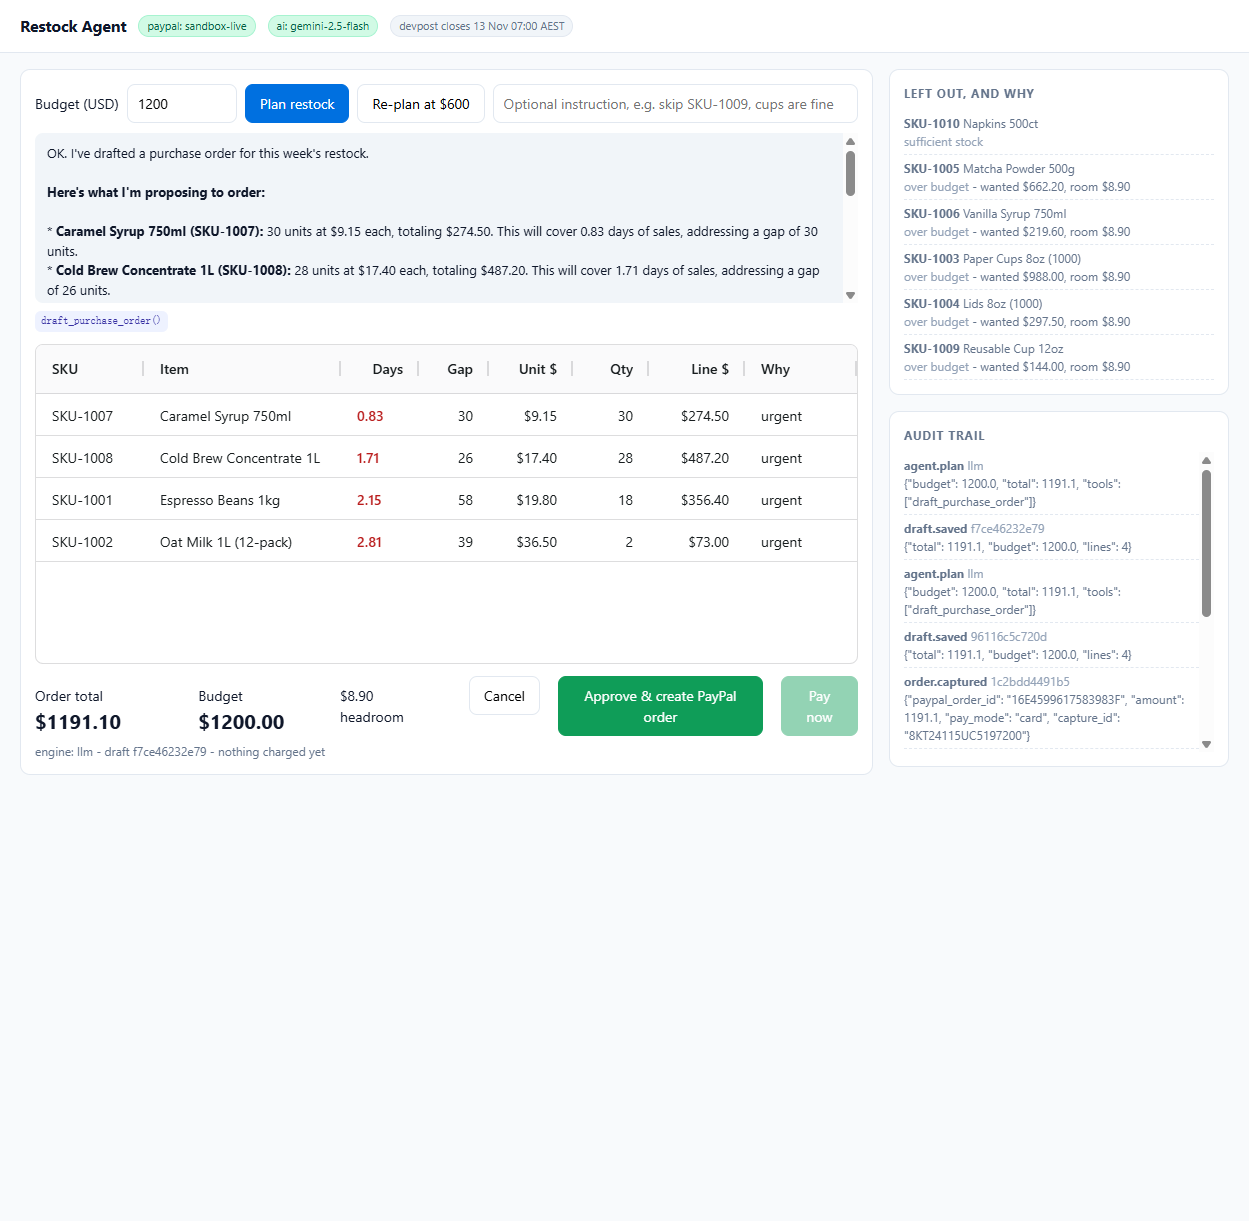
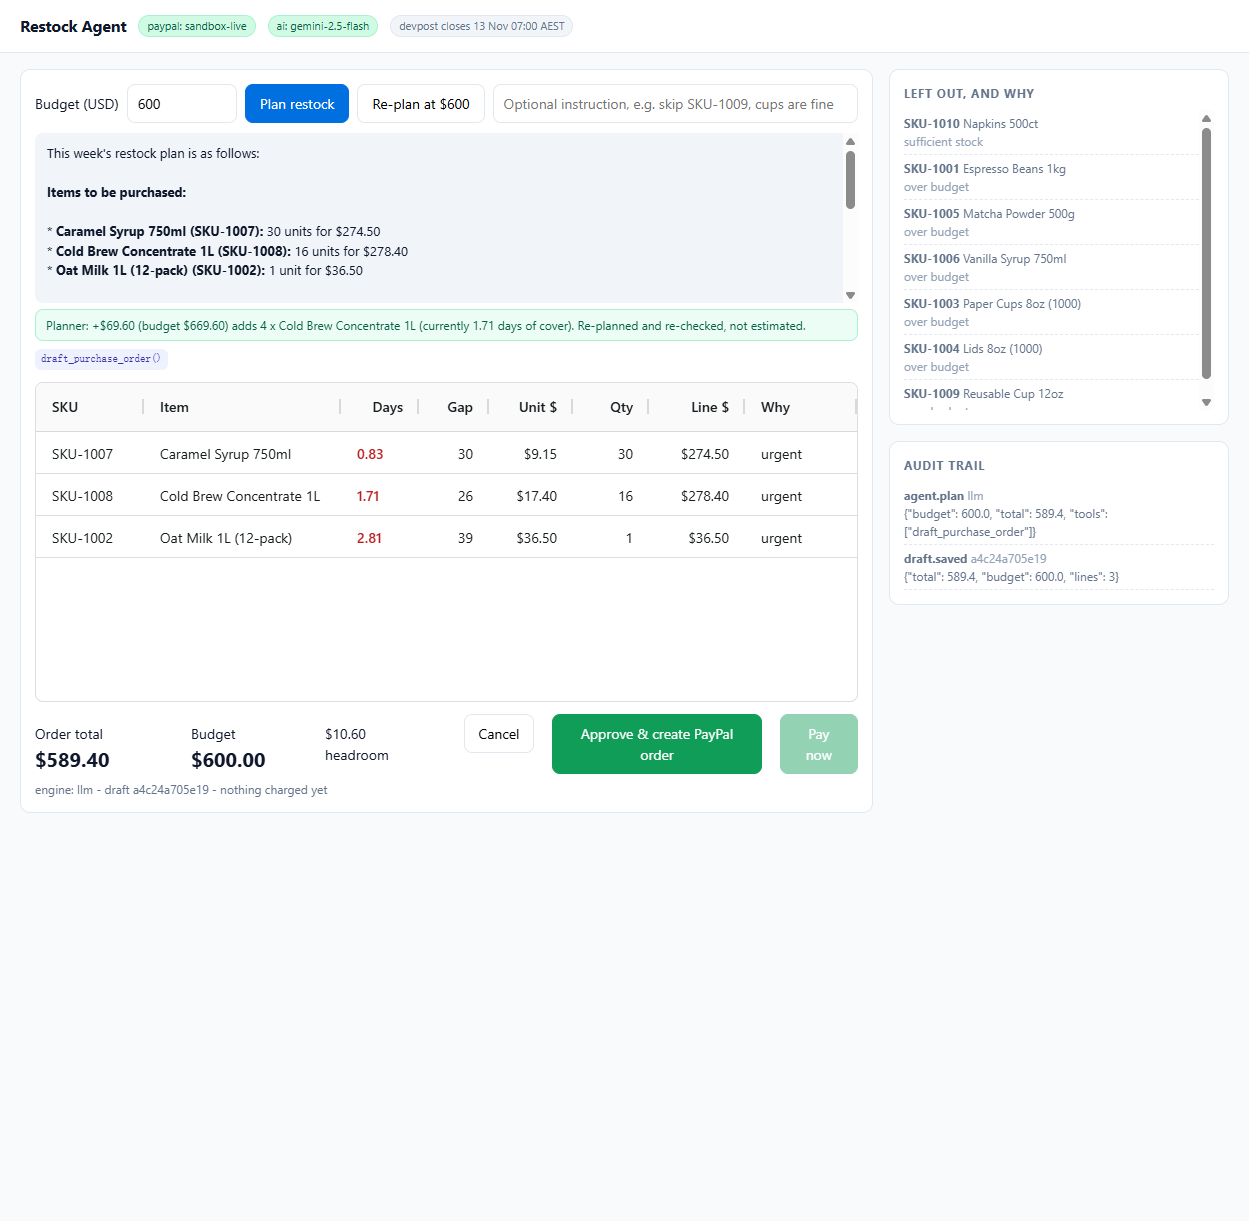
feat: price the trade-off and harden the approval path
- approval token binds a human review to one exact total (HMAC over id:total:lines)
- atomic claim so two concurrent approves cannot both win
- reconcile against PayPal before capturing, repairing a lost local write
- next_unlock quotes one more MOQ, verified by re-planning at the higher budget
- 19 boundary tests

diff --git a/static/index.html b/static/index.html
@@ -28,6 +28,8 @@
   button.pay { background:var(--ok); color:#fff; border-color:var(--ok); }
   button:disabled { opacity:.45; cursor:not-allowed; }
   #reply { margin:10px 0 0; padding:10px 12px; background:#f1f5f9; border-radius:8px; font-size:13px; max-height:170px; overflow:auto; }
+  .note { margin-top:6px; font-size:12px; color:#065f46; background:#ecfdf5; border:1px solid #a7f3d0; border-radius:8px; padding:6px 10px; }
+  .note:empty { display:none; }
   .trace { display:flex; gap:6px; flex-wrap:wrap; margin-top:8px; font-size:11px; color:var(--muted); }
   .trace code { background:#eef2ff; color:#3730a3; padding:2px 6px; border-radius:6px; }
   #grid { height:320px; width:100%; margin-top:12px; }
@@ -61,6 +63,7 @@
         <input type="text" id="message" placeholder="Optional instruction, e.g. skip SKU-1009, cups are fine" />
       </div>
       <div id="reply">Press "Plan restock" and the agent reads the inventory CSV, quotes the catalog, and drafts a purchase order under your budget.</div>
+      <div id="note" class="note"></div>
       <div class="trace" id="trace"></div>
 
       <div id="grid" class="ag-theme-quartz"></div>
@@ -157,7 +160,11 @@ function renderSkipped() {
   if (!draft || !draft.skipped || !draft.skipped.length) { box.textContent = "Nothing dropped."; return; }
   box.innerHTML = draft.skipped.map(s =>
     "<div><b>" + s.sku + "</b> " + s.name + "<br/><span style=\"color:#94a3b8\">" + s.reason.replace(/_/g, " ") + "</span>" +
-    (s.wanted_cost ? " - wanted $" + Number(s.wanted_cost).toFixed(2) + ", room $" + Number(s.room_left).toFixed(2) : "") +
+    (s.unlock_cost
+      ? " &middot; <b>+$" + Number(s.unlock_cost).toFixed(2) + " unlocks " + Number(s.covers_days).toFixed(1) + " days</b>"
+      : s.min_cost
+        ? " &middot; 1 MOQ (" + s.min_qty + ") = $" + Number(s.min_cost).toFixed(2)
+        : "") +
     "</div>").join("");
 }
 
@@ -187,6 +194,7 @@ async function doPlan(budget, message) {
   try {
     const out = await api("/api/plan", "POST", { budget_usd: budget, message: message || "" });
     document.getElementById("reply").innerHTML = fmt(out.reply);
+    document.getElementById("note").textContent = out.note || "";
     loadDraft(out.draft, out.trace);
     setStatus("engine: " + out.engine + " - draft " + out.draft.id + " - nothing charged yet");
     await refreshEvents();

diff --git a/app/planner.py b/app/planner.py
@@ -46,12 +46,12 @@ def _row_preview(rows: Iterable[Mapping[str, Any]]) -> list[dict[str, Any]]:
 
 
 def build_draft(budget: float, exclude: Iterable[str] = (), overrides: Mapping[str, int] | None = None,
-                previous: dict[str, Any] | None = None) -> dict[str, Any]:
+                previous: dict[str, Any] | None = None, _probe: bool = False) -> dict[str, Any]:
     """Allocate a purchase order under a hard budget.
 
     Order of allocation is urgency (days_of_cover ascending) so the money goes to
     whatever runs out first. Anything that does not fit is reported, never silently
-    dropped.
+    dropped - and each dropped line is priced, so a buyer can see what one more SKU costs.
     """
     budget = _money(max(0.0, float(budget)))
     exclude = {s.strip().upper() for s in exclude}
@@ -59,6 +59,7 @@ def build_draft(budget: float, exclude: Iterable[str] = (), overrides: Mapping[s
 
     candidates: list[dict[str, Any]] = []
     skipped: list[dict[str, Any]] = []
+    partials: list[dict[str, Any]] = []
 
     for row in catalog.inventory():
         sku = row["sku"].upper()
@@ -94,6 +95,7 @@ def build_draft(budget: float, exclude: Iterable[str] = (), overrides: Mapping[s
         room = _money(budget - spent)
 
         if cost > room + EPS:
+            wanted_qty = qty
             affordable = int(math.floor((room / price) + EPS))
             affordable = (affordable // row["moq"]) * row["moq"]
             if sku in overrides:
@@ -102,10 +104,18 @@ def build_draft(budget: float, exclude: Iterable[str] = (), overrides: Mapping[s
                 skipped.append({"sku": row["sku"], "name": row["name"],
                                 "reason": "over_budget",
                                 "wanted_qty": qty, "wanted_cost": cost,
-                                "room_left": room})
+                                "room_left": room,
+                                "min_qty": row["moq"],
+                                "min_cost": _money(row["moq"] * price),
+                                "days_of_cover_now": round(row["_cover"], 2)})
                 continue
             qty = affordable
             cost = _money(qty * price)
+            partials.append({"sku": row["sku"], "name": row["name"],
+                             "have_qty": qty,
+                             "moq": row["moq"],
+                             "moq_cost": _money(row["moq"] * price),
+                             "days_of_cover": round(row["_cover"], 2)})
 
         spent = _money(spent + cost)
         lines.append({
@@ -135,7 +145,69 @@ def build_draft(budget: float, exclude: Iterable[str] = (), overrides: Mapping[s
     if previous:
         draft["diff"] = diff(previous, draft)
         draft["replanned_from"] = previous.get("id")
+    if not _probe:
+        draft["next_unlock"] = next_unlock(budget, _money(budget - spent), skipped, partials, exclude)
     return draft
+
+
+def next_unlock(budget: float, headroom: float, skipped: list[dict[str, Any]],
+                partials: list[dict[str, Any]], exclude: Iterable[str]) -> dict[str, Any] | None:
+    """The single most useful "one more step" for the buyer, and what it costs.
+
+    Two shapes, in order of usefulness:
+      1. add_moq - a line already in the order was trimmed by the budget. One more minimum
+         order quantity of that line is the natural next purchase.
+      2. add_sku - nothing was trimmed, so quote the cheapest budget increase that actually
+         brings a skipped SKU back.
+
+    Every candidate is re-planned and re-checked, so the number cannot be decorative.
+    """
+    excluded = {s.strip().upper() for s in exclude}
+    best: dict[str, Any] | None = None
+
+    for p in partials:
+        trial = build_draft(budget=_money(budget + p["moq_cost"]), exclude=excluded, _probe=True)
+        got = next((l["qty"] for l in trial["lines"] if l["sku"] == p["sku"]), 0)
+        if got <= p["have_qty"]:
+            continue
+        candidate = {
+            "action": "add_moq",
+            "sku": p["sku"],
+            "name": p["name"],
+            "unlock_cost": p["moq_cost"],
+            "adds_qty": got - p["have_qty"],
+            "budget_after": _money(budget + p["moq_cost"]),
+            "days_of_cover_now": p["days_of_cover"],
+        }
+        if best is None or (candidate["days_of_cover_now"], candidate["unlock_cost"]) < \
+                (best["days_of_cover_now"], best["unlock_cost"]):
+            best = candidate
+    if best:
+        return best
+
+    verified: list[dict[str, Any]] = []
+    for item in skipped:
+        if item["reason"] != "over_budget":
+            continue
+        delta = _money(item["min_cost"] - headroom)
+        if delta <= 0:
+            continue
+        trial = build_draft(budget=_money(budget + delta), exclude=excluded, _probe=True)
+        if item["sku"] not in [l["sku"] for l in trial["lines"]]:
+            continue  # the extra money went to an earlier partial fill instead
+        verified.append({
+            "action": "add_sku",
+            "sku": item["sku"],
+            "name": item["name"],
+            "unlock_cost": delta,
+            "adds_qty": item["min_qty"],
+            "budget_after": _money(budget + delta),
+            "days_of_cover_now": item.get("days_of_cover_now"),
+        })
+    if not verified:
+        return None
+    affordable = [v for v in verified if v["unlock_cost"] <= budget * 0.25] or verified
+    return min(affordable, key=lambda v: (v["days_of_cover_now"] or 99, v["unlock_cost"]))
 
 
 def diff(old: Mapping[str, Any], new: Mapping[str, Any]) -> list[dict[str, Any]]:

diff --git a/app/agent.py b/app/agent.py
@@ -20,10 +20,25 @@ SYSTEM = (
     "The budget ceiling is set by the merchant's system, not by you: you cannot pass a budget to any "
     "tool and you cannot pay. Never claim a purchase is paid; payment requires human approval. "
     "When the merchant changes the budget, your draft is rebuilt for you - explain what was cut and why. "
-    "Answer in at most 120 words, as plain text: no markdown, no bullet asterisks."
+    "Answer in at most 100 words, as plain text: no markdown, no asterisks, no bullet points."
 )
 
 MAX_STEPS = 6
+
+
+def _unlock_note(draft: dict[str, Any]) -> str | None:
+    """A verified sentence from the planner, shown next to whatever the model wrote.
+
+    The model is free to phrase the trade-off however it likes; this line is computed and
+    re-checked by build_draft, so the number on screen is never a hallucination.
+    """
+    unlock = draft.get("next_unlock")
+    if not unlock:
+        return None
+    cover = f" (currently {unlock['days_of_cover_now']} days of cover)" if unlock.get("days_of_cover_now") else ""
+    verb = "adds" if unlock.get("action") == "add_moq" else "restores"
+    return (f"Planner: +${unlock['unlock_cost']:.2f} (budget ${unlock['budget_after']:.2f}) {verb} "
+            f"{unlock['adds_qty']} x {unlock['name']}{cover}. Re-planned and re-checked, not estimated.")
 
 
 def _chat(messages: list[dict[str, Any]]) -> dict[str, Any]:
@@ -32,7 +47,7 @@ def _chat(messages: list[dict[str, Any]]) -> dict[str, Any]:
         headers={"Authorization": f"Bearer {settings.llm_api_key}",
                  "Content-Type": "application/json"},
         json={"model": settings.llm_model, "messages": messages,
-              "tools": tools.TOOL_SCHEMAS, "tool_choice": "auto", "temperature": 0.2},
+              "tools": tools.TOOL_SCHEMAS, "tool_choice": "auto", "temperature": 0.0},
         timeout=60,
     )
     r.raise_for_status()
@@ -69,7 +84,8 @@ def plan(budget: float, message: str = "") -> dict[str, Any]:
     if not settings.has_llm:
         reply, trace, draft = _deterministic(budget)
         store.log("agent.plan", "deterministic", {"budget": budget, "total": draft["total"]})
-        return {"reply": reply, "trace": trace, "draft": draft, "engine": "deterministic"}
+        return {"reply": reply, "trace": trace, "draft": draft, "engine": "deterministic",
+                "note": _unlock_note(draft)}
 
     ctx = {"budget": float(budget)}
     messages: list[dict[str, Any]] = [
@@ -118,4 +134,5 @@ def plan(budget: float, message: str = "") -> dict[str, Any]:
               {"budget": budget, "total": draft["total"],
                "tools": [t["tool"] for t in trace]})
     return {"reply": reply, "trace": trace, "draft": draft,
-            "engine": "llm-fallback" if fell_back else "llm"}
+            "engine": "llm-fallback" if fell_back else "llm",
+            "note": _unlock_note(draft)}

diff --git a/tests/test_boundaries.py b/tests/test_boundaries.py
@@ -57,6 +57,23 @@ class GuardTests(unittest.TestCase):
             if s["reason"] == "over_budget":
                 self.assertGreater(s["wanted_cost"], s["room_left"])
 
+    def test_skipped_items_price_the_trade_off(self):
+        d = self._draft(300)
+        top = d["next_unlock"]
+        self.assertIsNotNone(top, "a $300 budget must leave something out")
+        self.assertGreater(top["unlock_cost"], 0)
+        self.assertAlmostEqual(top["budget_after"], round(d["budget"] + top["unlock_cost"], 2), places=2)
+        if top["action"] == "add_moq":
+            before = next(l for l in d["lines"] if l["sku"] == top["sku"])["qty"]
+            bigger = planner.build_draft(budget=top["budget_after"])
+            after = next(l["qty"] for l in bigger["lines"] if l["sku"] == top["sku"])
+            self.assertGreater(after, before)          # the delta really buys more
+            self.assertEqual(after - before, top["adds_qty"])
+        else:
+            # the quoted delta must actually work when applied - not a decorative number
+            bigger = planner.build_draft(budget=top["budget_after"])
+            self.assertIn(top["sku"], [l["sku"] for l in bigger["lines"]])
+
     # 2 ------------------------------------------------------------ re-plan
     def test_replan_under_a_smaller_budget_changes_the_order(self):
         big = self._draft(600)

diff --git a/README.md b/README.md
@@ -54,19 +54,27 @@ Restock Agent turns that into one screen and one approval.
    silently.
 4. **Re-plan** — change the budget and the same tool runs again, returning a diff of what was
    dropped, added or resized. This is the agent acting, not a suggestion engine.
-5. **Approve → pay** — a human reviews/edits quantities in the AG Grid table, then
-   `POST /api/approve` creates a PayPal order and `POST /api/capture` captures it. Money only moves
-   after the approval click.
+5. **Price the trade-off** — every draft carries `next_unlock`: the single next purchase worth
+   making and what it costs. If a line was trimmed by the budget it quotes one more MOQ of that
+   line; otherwise it quotes the cheapest budget increase that brings a skipped SKU back. Each
+   answer is produced by re-running the allocator at the higher budget, so the number on screen is
+   verified rather than estimated (`tests/test_boundaries.py::test_skipped_items_price_the_trade_off`).
+6. **Approve → pay** — a human reviews/edits quantities in the AG Grid table, then
+   `POST /api/approve` (with the approval token) creates a PayPal order and `POST /api/capture`
+   captures it. Money only moves after the approval click.
 
 ## Guardrails (the part judges should test)
 
 | Guard | Behaviour |
 |---|---|
 | Hard budget ceiling | `total ≤ budget` is enforced at draft time **and** re-checked at approve time, after any manual edit |
+| **Approval token** | approving requires `HMAC(secret, draft_id : total : line_count)`. Editing a quantity changes the total, which invalidates every token issued before the edit, so an approval can never be replayed against a different amount. The token is issued to the review surface only - never to the model |
 | **The model cannot set its own budget** | `budget_usd` is not a tool parameter. The ceiling lives in server-side session state; if the model tries to send a budget anyway it is logged as `agent.budget_override_refused` and ignored. An assertion fails loudly if a draft ever carries a different ceiling |
 | **The model cannot pay** | `pay_purchase_order` is not in the tool schema the model sees, and the dispatcher raises `PermissionError` if it is called anyway. Money moves only from the human Approve click |
 | Catalog price drift | if the supplier price moved since the draft, the order is refused with a `price_drift` error and the draft must be re-planned |
 | Idempotency | `PayPal-Request-Id` on create, stable key on capture; a double click returns the first capture with `deduplicated: true` |
+| Crash recovery | before every capture the order is re-read from PayPal. If it was already charged while our write was lost, the local row is repaired from that response instead of charging again (`order.reconciled`) |
+| Concurrent approve | `claim_for_payment` moves the draft to `approving` inside one `BEGIN IMMEDIATE` transaction; a second caller loses the race and gets `illegal_transition` |
 | State machine | `draft → awaiting_capture → paid`, `→ cancelled`; illegal transitions raise `illegal_transition`, and a paid order can never be cancelled |
 | Empty / zero drafts | an empty order is refused |
 
